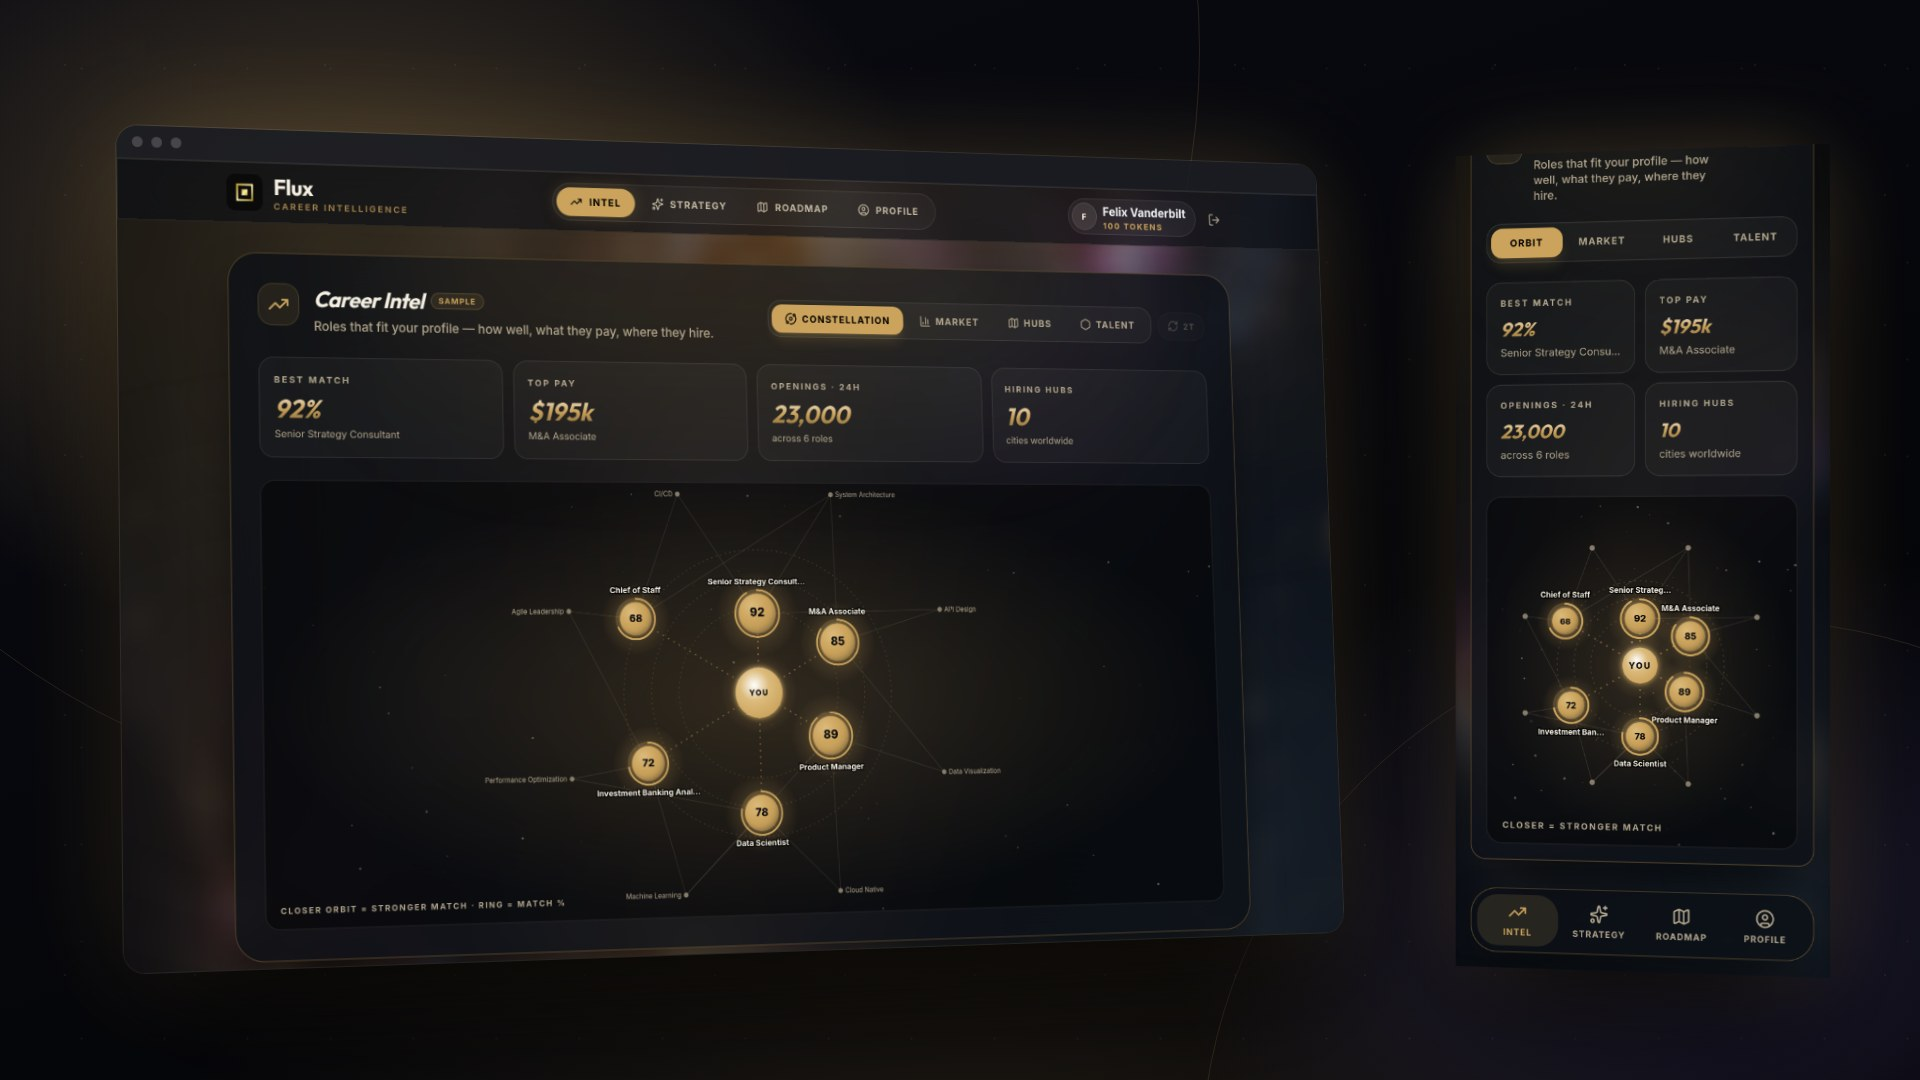
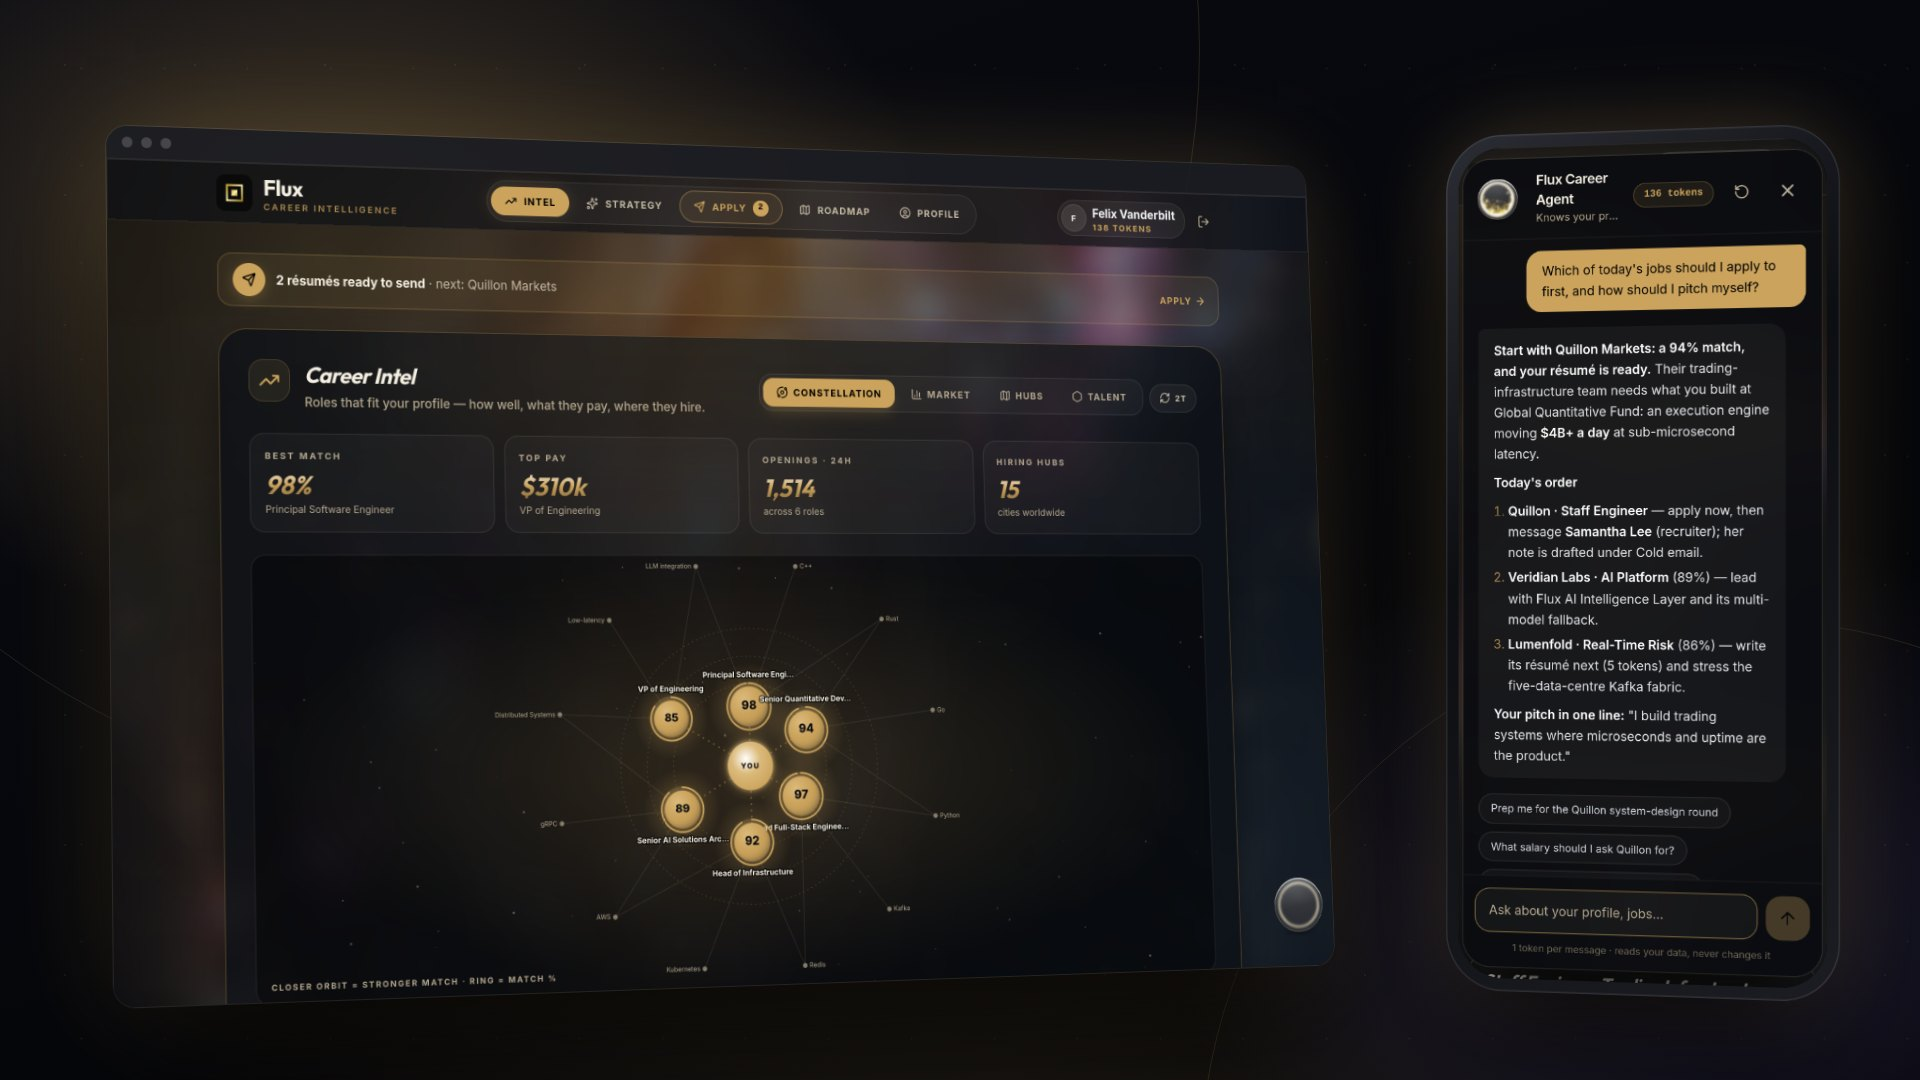
Flux Nutrition and Flux Career: new showcase images and copy
Nutrition: Flux Vision's food boxes and the shareable annotated photo,
Dr. Flux answering with the evidence and logging a meal from a sentence,
and a diet plan from goal, method and cycle to each day's targets.
Career: the AI career agent's plan for the day beside Career Intel's
market view, the daily apply queue with ready answers, and a tailored
résumé and cover letter checked against the job. Descriptions,
highlights (English and Chinese) and captions match the images; the
images they replace are removed.

Claude-Session: https://claude.ai/code/session_014Jf1Zz5VdAFUz4GXuR9DEp

diff --git a/lib/data.ts b/lib/data.ts
@@ -36,18 +36,18 @@ export const projects: Project[] = [
     title: 'Flux Nutrition',
     subtitle: 'AI Dietary & Metabolic Tracker',
     description:
-      'Snap a photo and Gemini Vision draws a bounding box around every item on your plate, gram by gram. “Dr. Flux,” an AI nutritionist, reads your live macro telemetry and calorie budget to coach you in real time — backed by real TDEE/PSMF metabolic math, not guesswork.',
+      'Snap a meal and Flux Vision boxes every food on the plate with its calories and macros: adjust the portions, log it in one tap, or share the annotated photo. Dr. Flux, an AI nutritionist, answers from your live targets and the published research, and logs a meal from one sentence. Pick a goal, a diet method and a cycle, and Flux builds the whole plan: every day’s targets, training and meals on one calendar.',
     tech: ['React 19', 'Gemini Vision', 'Tailwind CSS 4', 'TDEE Modeling', 'Mifflin-St Jeor'],
     link: 'https://flux-fox-1121.vercel.app/',
     image: '/images/projects/flux-nutrition/showcase.jpg',
     video: '/videos/flux-nutrition.mp4',
     gallery: [
-      { src: '/images/projects/flux-nutrition/showcase.jpg', caption: 'Flux Vision and Dr. Flux — snap a meal, then ask your AI nutritionist' },
-      { src: '/images/flux-nutrition.png', caption: 'Flux Vision — snap a meal, get instant bounding-box analysis' },
-      { src: '/images/projects/flux-nutrition/dashboard.png', caption: 'Macro rings and a 7-day temporal trend, live' },
-      { src: '/images/projects/flux-nutrition/ai-nutritionist.png', caption: 'Dr. Flux — an AI nutritionist reading your real-time telemetry' },
+      { src: '/images/projects/flux-nutrition/showcase.jpg', caption: 'Snap, ask, plan: Flux Vision, Dr. Flux and the day’s plan' },
+      { src: '/images/projects/flux-nutrition/vision.jpg', caption: 'Flux Vision: every food boxed with its macros, and the annotated photo ready to share' },
+      { src: '/images/projects/flux-nutrition/coach.jpg', caption: 'Dr. Flux: evidence-based answers from your live macros, and meals logged from one sentence' },
+      { src: '/images/projects/flux-nutrition/plan.jpg', caption: 'Diet plans: four choices build the plan, and every day’s targets, training and meals follow' },
     ],
-    highlights: ['Vision AI turns one photo into a full macro breakdown', '“Dr. Flux” AI coach reads your live telemetry', 'Real TDEE/PSMF metabolic math, not guesswork'],
+    highlights: ['Food detection with bounding boxes, shareable as one photo', 'An AI nutritionist that cites the research and knows your day', 'A full diet plan from a goal, a method and a cycle'],
     color: '#B8973E',
     gridHeight: 420,
   },
@@ -81,19 +81,18 @@ export const projects: Project[] = [
     title: 'Flux Career',
     subtitle: 'AI Career Intelligence Platform',
     description:
-      'Career Intel turns your profile into a living market map: a constellation where every recommended role orbits you at the distance its match sets, a match × salary bubble chart sized by live openings, and a world map of hiring hubs. Paste any job description and the AI match engine scores your resume against it, then rewrites the resume and cover letter — and one click exports your whole profile as a designed PDF.',
-    tech: ['React 19', 'Gemini AI', 'D3.js', 'Supabase', 'Express', 'NLP'],
+      'An AI career agent that knows your whole record (profile, applications and market fit) tells you which jobs to chase today and how to pitch yourself. Astro’s daily list arrives ranked by match; every job gets its own résumé, cover letter and ready answers, and the Flux Autofill extension fills in the application. Each résumé mirrors the posting’s keywords using only your true facts, and is checked against the job with a match score, its gaps and fixes.',
+    tech: ['React 19', 'Gemini AI', 'D3.js', 'Supabase', 'Express', 'Chrome Extension'],
     link: 'https://flux-career-cyan.vercel.app/',
     image: '/images/projects/flux-career/cover.jpg',
     video: '/videos/flux-career.mp4',
     gallery: [
-      { src: '/images/projects/flux-career/cover.jpg', caption: 'Career Intel — every role orbits you at the distance its match sets' },
-      { src: '/images/projects/flux-career/market.jpg', caption: 'Market — match × salary, sized by live openings, with a ranked leaderboard' },
-      { src: '/images/projects/flux-career/hubs.jpg', caption: 'Hiring hubs — openings aggregated by city, worldwide' },
-      { src: '/images/projects/flux-career/strategy.jpg', caption: 'Strategy — paste a job description, get a tailored resume and match analysis' },
-      { src: '/images/projects/flux-career/mobile.jpg', caption: 'Built for the phone too — Intel, analysis and resume a tab apart' },
+      { src: '/images/projects/flux-career/cover.jpg', caption: 'Career Intel and the AI career agent, side by side' },
+      { src: '/images/projects/flux-career/planner.jpg', caption: 'The AI career planner: where you fit, what it pays, and what to do today' },
+      { src: '/images/projects/flux-career/apply.jpg', caption: 'Apply: today’s jobs ranked, answers written, one tap to apply' },
+      { src: '/images/projects/flux-career/documents.jpg', caption: 'A tailored résumé and cover letter for every posting, checked against the job' },
     ],
-    highlights: ['Constellation, market and hiring-hub views of your fit', 'AI match scoring plus a tailored resume and cover letter', 'One-click PDF dossier of your entire profile'],
+    highlights: ['An AI career agent that plans your search from your real record', 'A daily apply queue: ranked jobs, ready answers, autofill', 'A résumé and cover letter per job, scored against the posting'],
     color: '#C9A84C',
     gridHeight: 380,
   },

diff --git a/lib/translations.ts b/lib/translations.ts
@@ -198,8 +198,8 @@ export const translations: Record<Language, Dict> = {
         {
           subtitle: 'AI Dietary & Metabolic Tracker',
           description:
-            'Snap a photo and Gemini Vision draws a bounding box around every item on your plate, gram by gram. “Dr. Flux,” an AI nutritionist, reads your live macro telemetry and calorie budget to coach you in real time — backed by real TDEE/PSMF metabolic math, not guesswork.',
-          highlights: ['Vision AI turns one photo into a full macro breakdown', '“Dr. Flux” AI coach reads your live telemetry', 'Real TDEE/PSMF metabolic math, not guesswork'],
+            'Snap a meal and Flux Vision boxes every food on the plate with its calories and macros: adjust the portions, log it in one tap, or share the annotated photo. Dr. Flux, an AI nutritionist, answers from your live targets and the published research, and logs a meal from one sentence. Pick a goal, a diet method and a cycle, and Flux builds the whole plan: every day’s targets, training and meals on one calendar.',
+          highlights: ['Food detection with bounding boxes, shareable as one photo', 'An AI nutritionist that cites the research and knows your day', 'A full diet plan from a goal, a method and a cycle'],
         },
         {
           subtitle: 'Bazi & Ziwei Astrology Engine',
@@ -210,8 +210,8 @@ export const translations: Record<Language, Dict> = {
         {
           subtitle: 'AI Career Intelligence Platform',
           description:
-            'Career Intel turns your profile into a living market map: a constellation where every recommended role orbits you at the distance its match sets, a match × salary bubble chart sized by live openings, and a world map of hiring hubs. Paste any job description and the AI match engine scores your resume against it, then rewrites the resume and cover letter — and one click exports your whole profile as a designed PDF.',
-          highlights: ['Constellation, market and hiring-hub views of your fit', 'AI match scoring plus a tailored resume and cover letter', 'One-click PDF dossier of your entire profile'],
+            'An AI career agent that knows your whole record (profile, applications and market fit) tells you which jobs to chase today and how to pitch yourself. Astro’s daily list arrives ranked by match; every job gets its own résumé, cover letter and ready answers, and the Flux Autofill extension fills in the application. Each résumé mirrors the posting’s keywords using only your true facts, and is checked against the job with a match score, its gaps and fixes.',
+          highlights: ['An AI career agent that plans your search from your real record', 'A daily apply queue: ranked jobs, ready answers, autofill', 'A résumé and cover letter per job, scored against the posting'],
         },
         {
           subtitle: 'AI Financial Management Platform',
@@ -374,8 +374,8 @@ export const translations: Record<Language, Dict> = {
         {
           subtitle: 'AI 饮食与代谢追踪应用',
           description:
-            '拍一张照片，Gemini Vision 就能给餐盘里的每样食物画出识别框，精确到克。AI 营养师"Dr. Flux"实时读取你的宏量营养素和热量缺口数据，给出即时建议 —— 背后是真正的 TDEE/PSMF 代谢数学模型，而非凭空猜测。',
-          highlights: ['拍照即出完整宏量营养分析', 'AI 教练 "Dr. Flux" 读取实时数据给建议', 'Mifflin-St Jeor TDEE/PSMF 代谢建模'],
+            '拍下一餐，Flux Vision 就为盘中每样食物画出识别框，标上热量和三大营养素；调好份量一键记录，或把带标注的照片直接分享出去。AI 营养师 Dr. Flux 结合你的实时目标和已发表的研究作答，一句话就能帮你记下一餐。选好目标、饮食方法和周期，Flux 会生成完整的饮食计划：每一天的目标、训练和餐食都排在同一张日历上。',
+          highlights: ['食物识别框 + 营养标注，一张图即可分享', '引用研究、了解你当天情况的 AI 营养师', '目标、方法、周期，三步生成完整饮食计划'],
         },
         {
           subtitle: '八字与紫微命理引擎',
@@ -386,8 +386,8 @@ export const translations: Record<Language, Dict> = {
         {
           subtitle: 'AI 求职智能平台',
           description:
-            'Career Intel 把你的履历变成一张实时的市场地图：推荐职位按匹配度环绕你运行的「星座图」、以匹配度 × 薪资定位并按 24 小时职位数定大小的气泡图，以及全球招聘热点地图。粘贴任意职位描述，AI 匹配引擎会对比打分，并为你重写简历和求职信；整份个人资料还能一键导出为精美的 PDF。',
-          highlights: ['星座图、市场气泡图与招聘热点地图三重视角', 'AI 匹配评分 + 定制简历与求职信', '一键导出完整个人资料 PDF'],
+            'AI 职业规划师了解你的全部履历——个人资料、投递记录和市场匹配度——告诉你今天先投哪些职位、怎样介绍自己。Astro 的每日职位清单按匹配度排好序；每个职位都有专属的简历、求职信和现成的申请问答，Flux Autofill 插件替你填好申请表。每份简历只用你的真实经历去对应职位描述的关键词，并与职位逐项比对，给出匹配分、差距和改进建议。',
+          highlights: ['基于真实履历规划求职的 AI 职业规划师', '每日投递清单：排序职位、现成问答、自动填表', '每个职位一份简历和求职信，并按职位要求评分'],
         },
         {
           subtitle: 'AI 财务管理平台',
